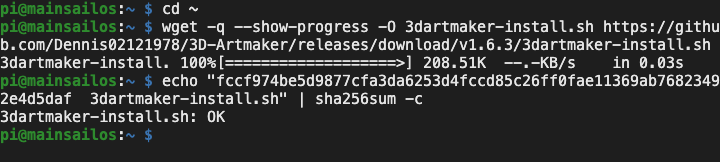
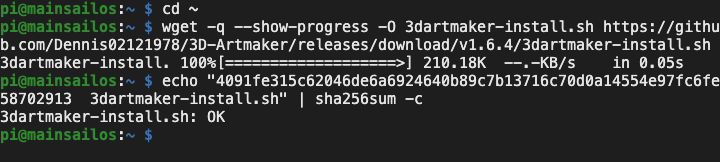
INSTALLATION und Anleitungsbilder auf 1.6.4, Hinweis zu Updates im System Terminal

diff --git a/INSTALLATION.md b/INSTALLATION.md
@@ -10,8 +10,8 @@ Der Installer prüft dein System, stellt dieselben Fragen wie der [Config Creato
 
 ```bash
 cd ~
-wget -q --show-progress -O 3dartmaker-install.sh https://github.com/Dennis02121978/3D-Artmaker/releases/download/v1.6.3/3dartmaker-install.sh
-echo "fccf974be5d9877cfa3da6253d4fccd85c26ff0fae11369ab76823492e4d5daf  3dartmaker-install.sh" | sha256sum -c
+wget -q --show-progress -O 3dartmaker-install.sh https://github.com/Dennis02121978/3D-Artmaker/releases/download/v1.6.4/3dartmaker-install.sh
+echo "4091fe315c62046de6a6924640b89c7b13716c70d0a14554e97fc6fe58702913  3dartmaker-install.sh" | sha256sum -c
 bash 3dartmaker-install.sh
 ```
 
@@ -256,13 +256,13 @@ PRINT_END
 
 ```bash
 cd ~
-wget https://github.com/Dennis02121978/3D-Artmaker/releases/download/v1.6.3/skipr-filament_1.6.3_all.deb
+wget https://github.com/Dennis02121978/3D-Artmaker/releases/download/v1.6.4/skipr-filament_1.6.4_all.deb
 ```
 
 **2. Datei prüfen:**
 
 ```bash
-echo "648cfd07d1191f0c97c94c18cb201c621eb54c398a85eedbaccbb08d81512596  skipr-filament_1.6.3_all.deb" | sha256sum -c
+echo "87972b6e92d040281acf1de35b56f5116ec6dd52699de2bcc1245ed6b0bbf5f5  skipr-filament_1.6.4_all.deb" | sha256sum -c
 ```
 
 Am Ende der Ausgabe muss `OK` stehen. Steht dort etwas anderes, installiere nicht weiter.
@@ -271,7 +271,7 @@ Am Ende der Ausgabe muss `OK` stehen. Steht dort etwas anderes, installiere nich
 
 ```bash
 sudo apt update
-sudo apt install ./skipr-filament_1.6.3_all.deb
+sudo apt install ./skipr-filament_1.6.4_all.deb
 ```
 
 Wird nach einem Passwort gefragt, gib es noch einmal ein. Kommt eine Frage mit `J/n` oder `Y/n`, drücke `J` oder `Y` und dann Enter.
@@ -291,13 +291,13 @@ Wird nach einem Passwort gefragt, gib es noch einmal ein. Kommt eine Frage mit `
 
 ```bash
 cd ~
-wget https://github.com/Dennis02121978/3D-Artmaker/releases/download/v1.6.3/skipr-update_1.6.3_all.deb
+wget https://github.com/Dennis02121978/3D-Artmaker/releases/download/v1.6.4/skipr-update_1.6.4_all.deb
 ```
 
 **2. Datei prüfen:**
 
 ```bash
-echo "b83275880e05969dfb971d4f76e8cffa79b4178b751031548d26bbdedfc6d583  skipr-update_1.6.3_all.deb" | sha256sum -c
+echo "23317c20e1d73f08a3b83aa81b034bc079735956232b3edbf5b98fe389038bd2  skipr-update_1.6.4_all.deb" | sha256sum -c
 ```
 
 Am Ende der Ausgabe muss `OK` stehen. Steht dort etwas anderes, installiere nicht weiter.
@@ -306,7 +306,7 @@ Am Ende der Ausgabe muss `OK` stehen. Steht dort etwas anderes, installiere nich
 
 ```bash
 sudo apt update
-sudo apt install ./skipr-update_1.6.3_all.deb
+sudo apt install ./skipr-update_1.6.4_all.deb
 ```
 
 Wird nach einem Passwort gefragt, gib es noch einmal ein. Kommt eine Frage mit `J/n` oder `Y/n`, drücke `J` oder `Y` und dann Enter. Das kann ein paar Minuten dauern.
@@ -336,13 +336,13 @@ Dieses Paket gehört zu Boards mit **ATmega2560**. Pro Drucker kannst du nur ein
 
 ```bash
 cd ~
-wget https://github.com/Dennis02121978/3D-Artmaker/releases/download/v1.6.3/rf-update_1.6.3_all.deb
+wget https://github.com/Dennis02121978/3D-Artmaker/releases/download/v1.6.4/rf-update_1.6.4_all.deb
 ```
 
 **2. Datei prüfen:**
 
 ```bash
-echo "1f2c3850a1de7f1fa8c1075c8dbec234f5934c0d2ca5a4169282f15704b2bc95  rf-update_1.6.3_all.deb" | sha256sum -c
+echo "36d48dd36c39acf7cf9d92011b40d2a5f03c39279953b6eda123a4e3735ad470  rf-update_1.6.4_all.deb" | sha256sum -c
 ```
 
 Am Ende der Ausgabe muss `OK` stehen. Steht dort etwas anderes, installiere nicht weiter.
@@ -351,7 +351,7 @@ Am Ende der Ausgabe muss `OK` stehen. Steht dort etwas anderes, installiere nich
 
 ```bash
 sudo apt update
-sudo apt install ./rf-update_1.6.3_all.deb
+sudo apt install ./rf-update_1.6.4_all.deb
 ```
 
 Wird nach einem Passwort gefragt, gib es noch einmal ein. Kommt eine Frage mit `J/n` oder `Y/n`, drücke `J` oder `Y` und dann Enter.
@@ -387,13 +387,13 @@ Mit dem Paket **rf-multi** laufen bis zu 4 Drucker an einem Raspberry Pi. Jeder 
 
 ```bash
 cd ~
-wget https://github.com/Dennis02121978/3D-Artmaker/releases/download/v1.6.3/rf-multi_1.6.3_all.deb
+wget https://github.com/Dennis02121978/3D-Artmaker/releases/download/v1.6.4/rf-multi_1.6.4_all.deb
 ```
 
 **2. Datei prüfen:**
 
 ```bash
-echo "3d6c9fdd9224de3623d368864e775df487343dbaa0d7e42509ab399c6b5902db  rf-multi_1.6.3_all.deb" | sha256sum -c
+echo "598c1fd68497514df4017a88657b8e2fe0fe4730d8b309d3374ff50f597cbb7f  rf-multi_1.6.4_all.deb" | sha256sum -c
 ```
 
 Am Ende der Ausgabe muss `OK` stehen.
@@ -401,7 +401,7 @@ Am Ende der Ausgabe muss `OK` stehen.
 **3. Installieren:**
 
 ```bash
-sudo apt install ./rf-multi_1.6.3_all.deb
+sudo apt install ./rf-multi_1.6.4_all.deb
 ```
 
 **4. Weiteren Drucker einrichten:**
@@ -442,13 +442,13 @@ Einen Drucker wieder entfernen: `sudo rf-multi remove RF2000`. Der Ordner mit Co
 
 ```bash
 cd ~
-wget https://github.com/Dennis02121978/3D-Artmaker/releases/download/v1.6.3/skipr-bootlogo_1.6.3_all.deb
+wget https://github.com/Dennis02121978/3D-Artmaker/releases/download/v1.6.4/skipr-bootlogo_1.6.4_all.deb
 ```
 
 **2. Datei prüfen:**
 
 ```bash
-echo "a7c06bf89e5f935739e2d274ac50a98cfa203fcbfa1489ac4cec3ca4d4aebfb4  skipr-bootlogo_1.6.3_all.deb" | sha256sum -c
+echo "406c3403585a84dccb5a94d3fce601a5259b2453759288bd45c396d8b2ad59cf  skipr-bootlogo_1.6.4_all.deb" | sha256sum -c
 ```
 
 Am Ende der Ausgabe muss `OK` stehen. Steht dort etwas anderes, installiere nicht weiter.
@@ -457,7 +457,7 @@ Am Ende der Ausgabe muss `OK` stehen. Steht dort etwas anderes, installiere nich
 
 ```bash
 sudo apt update
-sudo apt install ./skipr-bootlogo_1.6.3_all.deb
+sudo apt install ./skipr-bootlogo_1.6.4_all.deb
 ```
 
 Wird nach einem Passwort gefragt, gib es noch einmal ein. Kommt eine Frage mit `J/n` oder `Y/n`, drücke `J` oder `Y` und dann Enter.
@@ -482,13 +482,13 @@ Dieses Paket ist für den Raspberry Pi. Das Display muss schon funktionieren, da
 
 ```bash
 cd ~
-wget https://github.com/Dennis02121978/3D-Artmaker/releases/download/v1.6.3/rf-bootlogo_1.6.3_all.deb
+wget https://github.com/Dennis02121978/3D-Artmaker/releases/download/v1.6.4/rf-bootlogo_1.6.4_all.deb
 ```
 
 **2. Datei prüfen:**
 
 ```bash
-echo "302f3bb995232ff1c47e4aebe98cebcdf8c41ca86fd0668caad8ec48d6dd58cb  rf-bootlogo_1.6.3_all.deb" | sha256sum -c
+echo "3ed9b96a7d07abce5af0c70cdbcb9cb6ad395389481b4b6f39aea293583a4c5a  rf-bootlogo_1.6.4_all.deb" | sha256sum -c
 ```
 
 Am Ende der Ausgabe muss `OK` stehen. Steht dort etwas anderes, installiere nicht weiter.
@@ -497,7 +497,7 @@ Am Ende der Ausgabe muss `OK` stehen. Steht dort etwas anderes, installiere nich
 
 ```bash
 sudo apt update
-sudo apt install ./rf-bootlogo_1.6.3_all.deb
+sudo apt install ./rf-bootlogo_1.6.4_all.deb
 ```
 
 Wird nach einem Passwort gefragt, gib es noch einmal ein. Kommt eine Frage mit `J/n` oder `Y/n`, drücke `J` oder `Y` und dann Enter. Dein Drucker lädt dabei ImageMagick nach, das dauert einen Moment.
@@ -532,13 +532,13 @@ Dieses Paket fügt Mainsail links den Menüpunkt **System Terminal** hinzu. Dort
 
 ```bash
 cd ~
-wget https://github.com/Dennis02121978/3D-Artmaker/releases/download/v1.6.3/rf-terminal_1.6.3_all.deb
+wget https://github.com/Dennis02121978/3D-Artmaker/releases/download/v1.6.4/rf-terminal_1.6.4_all.deb
 ```
 
 **2. Datei prüfen:**
 
 ```bash
-echo "b4ed170ac36893db51378f8eb0fe1238ee0e20e05a3a0c56e7ee0a59bd741db4  rf-terminal_1.6.3_all.deb" | sha256sum -c
+echo "0f83425fa615185d64b52686d83c6ba1cda180106f6d6fd659885f0489b77a01  rf-terminal_1.6.4_all.deb" | sha256sum -c
 ```
 
 Am Ende der Ausgabe muss `OK` stehen. Steht dort etwas anderes, installiere nicht weiter.
@@ -546,7 +546,7 @@ Am Ende der Ausgabe muss `OK` stehen. Steht dort etwas anderes, installiere nich
 **3. Installieren:**
 
 ```bash
-sudo apt install ./rf-terminal_1.6.3_all.deb
+sudo apt install ./rf-terminal_1.6.4_all.deb
 ```
 
 **Geklappt?** Am Ende steht `System-Terminal ist installiert`.
@@ -555,6 +555,8 @@ sudo apt install ./rf-terminal_1.6.3_all.deb
 
 > [!WARNING]
 > Wer das Passwort kennt, kann über diese Seite alles auf dem Drucker ändern. Ändere deshalb das Standard-Passwort mit `passwd` und gib den Drucker **nicht** im Router für das Internet frei.
+
+Aktualisierst du Pakete im System Terminal selbst (zum Beispiel mit `3DArtmaker-upgrade`), bleibt die Sitzung ab Version 1.6.4 offen. Die neue Version des Terminals startet erst, wenn du dich abmeldest oder den Tab schließt, spätestens nach einer Stunde.
 
 ---
 
